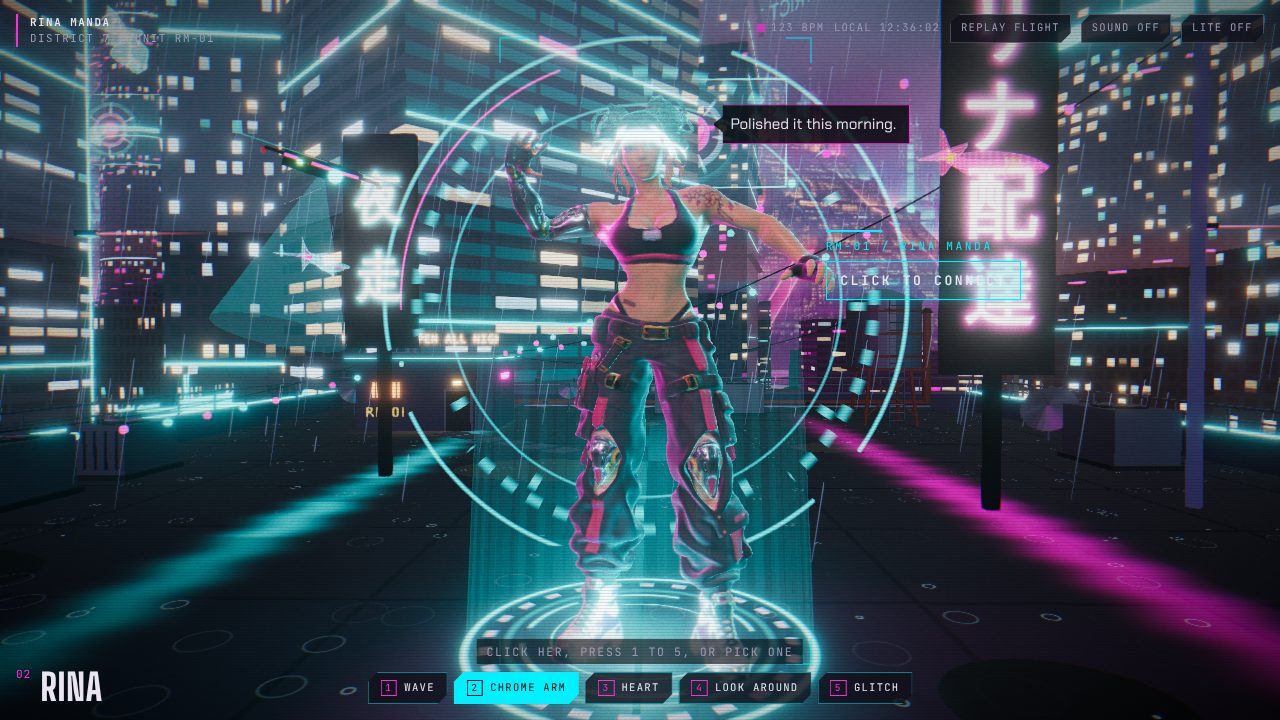
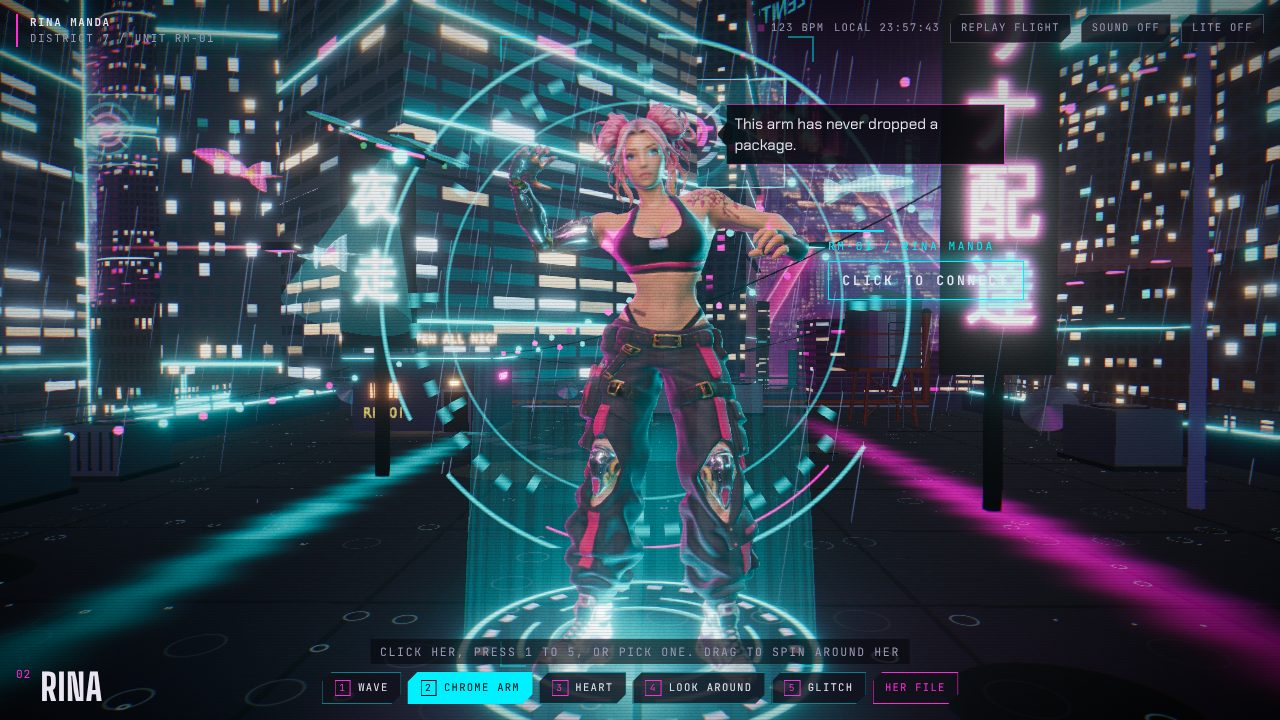
Keep Rina's hands out of her body, tone her optic down, and light her more naturally
Her clips came from a slimmer rig, so on her hips and baggy pants the hands sank in. Each
frame her body is now roughed out as capsules (oval torso, thick thighs, head) and an upper
arm is swung out whenever its hand would be inside one. The optic is a small soft point
below the bloom threshold that fades as her face turns away. Her materials reflect the
environment more (chrome arm and knees), the rim light is softer, the key light is warmer
and the coloured rims dimmer, and a contact shadow sits under her feet.

Claude-Session: https://claude.ai/code/session_01NZq6j9i9xrt8FVM8BMwMet

diff --git a/app/experience/rina.ts b/app/experience/rina.ts
@@ -83,7 +83,7 @@ const POSES: Record<'wave' | 'flex', Pose> = {
     length: 2.8,
     aims: [
       ['mixamorigRightArm', 'mixamorigRightForeArm', (t, o) => o.set(-1, 0.02 + Math.sin(t * 6) * 0.03, 0.12)],
-      ['mixamorigRightForeArm', 'mixamorigRightHand', (_t, o) => o.set(0.06, 1, 0.2)],
+      ['mixamorigRightForeArm', 'mixamorigRightHand', (_t, o) => o.set(-0.18, 1, 0.22)],
       ['mixamorigRightHand', 'mixamorigRightHandMiddle1', (_t, o) => o.set(0.7, 0.35, 0.25)],
     ],
   },
@@ -154,7 +154,7 @@ export class Rina {
   private nod = 0
 
   constructor() {
-    this.optic = new Sprite(new SpriteMaterial({ map: glowTexture(), color: col(HEX.cyan, 2.2), blending: AdditiveBlending, depthWrite: false, fog: false, transparent: true }))
+    this.optic = new Sprite(new SpriteMaterial({ map: glowTexture(), color: col(HEX.cyan, 0.9), blending: AdditiveBlending, depthWrite: false, fog: false, transparent: true }))
     this.optic.renderOrder = 5
     this.optic.visible = false
   }
@@ -283,6 +283,10 @@ export class Rina {
    */
   private withScan(source: Material): Material {
     const mat = (source as MeshStandardMaterial).clone()
+    // Stronger reflections, so her chrome arm and knee caps catch the neon, and sharper
+    // textures when she is seen at an angle.
+    mat.envMapIntensity = 2.4
+    for (const tex of [mat.map, mat.normalMap, mat.roughnessMap, mat.metalnessMap]) if (tex) tex.anisotropy = 8
     const u = this.scanUniforms
     mat.onBeforeCompile = (shader) => {
       Object.assign(shader.uniforms, u)
@@ -347,7 +351,7 @@ export class Rina {
     for (const o of this.outlines) o.visible = on
     this.outlineUniforms.uWidth.value = this.glow * (0.02 + 0.005 * Math.sin(time * 5))
     // The rim light brightens while she is pointed at, and pulses with the music.
-    u.uRim.value = 0.75 + this.glow * 0.9 + beat * 0.35
+    u.uRim.value = 0.38 + this.glow * 0.7 + beat * 0.2
     this.glitch = Math.max(0, this.glitch - dt * 0.9)
     u.uGlitch.value = this.glitch > 0 ? Math.min(1, this.glitch * 1.6) * (0.6 + 0.4 * Math.sin(time * 37)) : 0
 
@@ -371,6 +375,7 @@ export class Rina {
     this.root?.updateMatrixWorld(true)
     this.applyPose(dt)
     this.applyGaze(dt, time, beat)
+    this.keepHandsOut()
     this.placeOptic(time)
   }
 
@@ -444,6 +449,82 @@ export class Rina {
     }
   }
 
+  /**
+   * Keeps her hands out of her body. Her clips came from a slimmer rig, so on her baggy
+   * cargo pants and hips the hands sink in (hands on hips, the look-around, the start of the
+   * heart pose), and a code-built pose can swing a hand into her head.
+   *
+   * Her body is roughed out as capsules on the skeleton: an oval torso, a thick thigh per
+   * leg for the pants, and a ball for the head and hair. Each frame, the wrist and the middle
+   * of the hand are tested against them; if one is inside, the upper arm is turned so the
+   * hand lands just outside. Two passes, so a push out of one shape into another is caught.
+   */
+  private keepHandsOut() {
+    const h = this.height
+    const b = (n: string) => this.bones.get('mixamorig' + n)
+    const hips = b('Hips')
+    const spine = b('Spine2')
+    const head = b('Head')
+    if (!hips || !spine || !head) return
+    const hipsP = hips.getWorldPosition(this.c1)
+    const spineP = spine.getWorldPosition(this.c2)
+    const headP = head.getWorldPosition(this.c3).addScaledVector(UP, h * 0.045)
+    const shapes: [Vector3, Vector3, number, number][] = [
+      // a, b, radius, depth squash (her front-to-back is thinner than side to side)
+      [hipsP, spineP, h * 0.118, 1.35],
+      [headP, headP, h * 0.085, 1],
+    ]
+    for (const side of ['Left', 'Right']) {
+      const up = b(side + 'UpLeg')
+      const knee = b(side + 'Leg')
+      if (up && knee) shapes.push([up.getWorldPosition(new Vector3()), knee.getWorldPosition(new Vector3()), h * 0.082, 1])
+    }
+    const handR = h * 0.022
+    for (const side of ['Left', 'Right']) {
+      const arm = b(side + 'Arm')
+      const points = [b(side + 'Hand'), b(side + 'HandMiddle2')].filter((x): x is Object3D => !!x)
+      if (!arm || !points.length) continue
+      for (let pass = 0; pass < 2; pass++) {
+        let best = 0
+        const push = this.push.set(0, 0, 0)
+        let at: Vector3 | null = null
+        for (const pt of points) {
+          const p = pt.getWorldPosition(this.c4)
+          for (const [a, c, r, squash] of shapes) {
+            const near = closestOnSegment(p, a, c, this.c5)
+            const d = this.c6.subVectors(p, near)
+            d.z *= squash
+            const dist = d.length()
+            const pen = r + handR - dist
+            if (pen > best) {
+              best = pen
+              if (dist < 1e-5) d.set(side === 'Left' ? 1 : -1, 0, 0)
+              d.z /= squash
+              push.copy(d.normalize()).multiplyScalar(pen + h * 0.004)
+              at = this.c7.copy(p)
+            }
+          }
+        }
+        if (!at || best <= 0) break
+        // Swing the upper arm so this point moves out along `push`.
+        const shoulder = arm.getWorldPosition(this.c5)
+        const from = this.v1.subVectors(at, shoulder)
+        const to = this.v2.copy(at).add(push).sub(shoulder)
+        if (from.lengthSq() < 1e-8 || to.lengthSq() < 1e-8) break
+        this.q.setFromUnitVectors(from.normalize(), to.normalize())
+        this.turnWorld(arm, this.q)
+      }
+    }
+  }
+  private readonly push = new Vector3()
+  private readonly c1 = new Vector3()
+  private readonly c2 = new Vector3()
+  private readonly c3 = new Vector3()
+  private readonly c4 = new Vector3()
+  private readonly c5 = new Vector3()
+  private readonly c6 = new Vector3()
+  private readonly c7 = new Vector3()
+
   /** Where one of the labelled points on her is now, in world space. */
   anchor(name: Anchor, out: Vector3): Vector3 {
     const [boneName, x, y, z] = ANCHORS[name]
@@ -457,12 +538,25 @@ export class Rina {
     return out.add(this.v3.set(x, y, z).multiplyScalar(this.height).applyQuaternion(this.q))
   }
 
+  /**
+   * A small soft cyan point on her left optic. It stays below the bloom threshold so it
+   * reads as a lit lens, not a flare, and fades out as her face turns away from the viewer,
+   * so it never pokes out past her cheek or through her hair.
+   */
   private placeOptic(time: number) {
-    this.anchor('optic', this.optic.position)
-    const flicker = Math.sin(time * 3.1) > 0.97 ? 0.4 : 1
-    const s = this.height * (0.05 + 0.01 * Math.sin(time * 2.2) + this.glow * 0.02) * flicker
+    const pos = this.anchor('optic', this.optic.position)
+    let facing = 1
+    const head = this.bones.get('mixamorigHead')
+    const rest = this.rest.get('mixamorigHead')
+    if (this.gaze && head && rest) {
+      head.getWorldQuaternion(this.q).multiply(this.q2.copy(rest).invert())
+      const fwd = this.v1.copy(FORWARD).applyQuaternion(this.q)
+      const toViewer = this.v2.subVectors(this.gaze, pos).normalize()
+      facing = smoothstep(0.35, 0.8, fwd.dot(toViewer))
+    }
+    const s = this.height * (0.016 + 0.002 * Math.sin(time * 2.2) + this.glow * 0.004)
     this.optic.scale.setScalar(s)
-    this.optic.material.opacity = 0.35 + this.solid * 0.65
+    this.optic.material.opacity = (0.25 + this.solid * 0.45) * facing
   }
 
   /**
@@ -562,22 +656,27 @@ function glowTexture() {
   const g = c.getContext('2d')!
   const grad = g.createRadialGradient(32, 32, 0, 32, 32, 32)
   grad.addColorStop(0, 'rgba(255,255,255,1)')
-  grad.addColorStop(0.08, 'rgba(255,255,255,0.95)')
-  grad.addColorStop(0.2, 'rgba(255,255,255,0.25)')
+  grad.addColorStop(0.25, 'rgba(255,255,255,0.55)')
+  grad.addColorStop(0.6, 'rgba(255,255,255,0.12)')
   grad.addColorStop(1, 'rgba(255,255,255,0)')
   g.fillStyle = grad
   g.fillRect(0, 0, 64, 64)
-  // A thin horizontal streak through the core, like a lens catching it.
-  const streak = g.createLinearGradient(0, 0, 64, 0)
-  streak.addColorStop(0, 'rgba(255,255,255,0)')
-  streak.addColorStop(0.5, 'rgba(255,255,255,0.7)')
-  streak.addColorStop(1, 'rgba(255,255,255,0)')
-  g.fillStyle = streak
-  g.fillRect(0, 31, 64, 2)
   return new CanvasTexture(c)
 }
 
+/** The point on segment a-b closest to p. */
+function closestOnSegment(p: Vector3, a: Vector3, b: Vector3, out: Vector3) {
+  const abx = b.x - a.x, aby = b.y - a.y, abz = b.z - a.z
+  const len = abx * abx + aby * aby + abz * abz
+  const t = len < 1e-10 ? 0 : clamp(((p.x - a.x) * abx + (p.y - a.y) * aby + (p.z - a.z) * abz) / len, 0, 1)
+  return out.set(a.x + abx * t, a.y + aby * t, a.z + abz * t)
+}
+
 const clamp = (v: number, a: number, b: number) => Math.min(b, Math.max(a, v))
+const smoothstep = (a: number, b: number, v: number) => {
+  const t = clamp((v - a) / (b - a), 0, 1)
+  return t * t * (3 - 2 * t)
+}
 
 function rand(a: number, b: number) {
   return a + Math.random() * (b - a)

diff --git a/app/experience/chapters/roofdress.ts b/app/experience/chapters/roofdress.ts
@@ -66,13 +66,13 @@ export class RoofDress {
 
     // Her lights: a soft key from the front left, a hard pink rim from behind on her right,
     // a cyan one from behind on her left, and cyan bouncing up off the pad.
-    const key = new SpotLight(0xffe2ee, 420, 60, 0.42, 0.7, 2)
+    const key = new SpotLight(0xfff0e4, 640, 60, 0.42, 0.7, 2)
     key.position.set(this.at.x - 7, this.top + 17, this.at.z + 16)
     key.target.position.set(this.at.x, this.top + 5, this.at.z)
-    const pinkRim = new SpotLight(HEX.pink, 520, 40, 0.5, 0.5, 2)
+    const pinkRim = new SpotLight(HEX.pink, 300, 40, 0.5, 0.5, 2)
     pinkRim.position.set(this.at.x - 6, this.top + 11, this.at.z - 9)
     pinkRim.target.position.set(this.at.x, this.top + 5, this.at.z)
-    const cyanRim = new SpotLight(HEX.cyan, 420, 40, 0.5, 0.5, 2)
+    const cyanRim = new SpotLight(HEX.cyan, 260, 40, 0.5, 0.5, 2)
     cyanRim.position.set(this.at.x + 7, this.top + 9, this.at.z - 8)
     cyanRim.target.position.set(this.at.x, this.top + 5, this.at.z)
     this.padLight = new PointLight(HEX.cyan, 30, 14, 2)
@@ -108,6 +108,21 @@ export class RoofDress {
           gl_FragColor = vec4(c, 1.0);
         }`,
     }))
+    // A soft dark patch right under her feet, so she stands on the roof instead of floating.
+    const shade = document.createElement('canvas')
+    shade.width = shade.height = 64
+    const g = shade.getContext('2d')!
+    const grad = g.createRadialGradient(32, 32, 0, 32, 32, 32)
+    grad.addColorStop(0, 'rgba(0,0,0,0.85)')
+    grad.addColorStop(0.5, 'rgba(0,0,0,0.45)')
+    grad.addColorStop(1, 'rgba(0,0,0,0)')
+    g.fillStyle = grad
+    g.fillRect(0, 0, 64, 64)
+    const contact = new Mesh(new PlaneGeometry(3.2, 2.2), new MeshBasicMaterial({ map: new CanvasTexture(shade), transparent: true, depthWrite: false, fog: false }))
+    contact.rotation.x = -Math.PI / 2
+    contact.position.set(this.at.x, this.top + 0.15, this.at.z)
+    contact.renderOrder = -1
+    this.group.add(contact)
     const disc = new Mesh(new PlaneGeometry(6, 6), mat)
     disc.rotation.x = -Math.PI / 2
     disc.position.set(this.at.x, this.top + 0.16, this.at.z)
